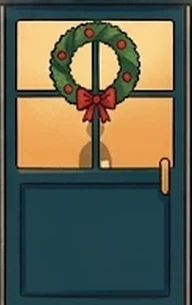
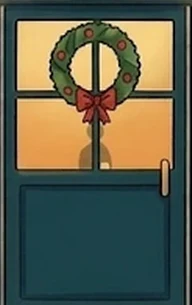
Street repainted in Gemini: full-size detailed scooters and bicycle, illustrated people with faces in the windows; door hint moved off the people
Claude-Session: https://claude.ai/code/session_01M7PDTuVyJJ1kuWZYfUFzFc

diff --git a/js/art.js b/js/art.js
@@ -957,10 +957,10 @@ window.ART = (function () {
       <path class="door-pulse" d="M790,775 L790,470 Q790,384 900,384 Q1010,384 1010,470 L1010,775" fill="none" stroke="#FFE3A3" stroke-width="10" stroke-linecap="round"/>
       <g id="door-hint" class="hot" data-act="enter">
         <g class="door-hint-inner">
-          <path d="M1042,612 L1014,632 L1046,640 Z" fill="#fff" ${ol(4)}/>
-          <rect x="1036" y="590" width="196" height="56" rx="16" fill="#fff" ${ol(4)}/>
-          <path d="M1040,616 L1040,636" stroke="#fff" stroke-width="8"/>
-          <text id="door-hint-text" x="1134" y="628" text-anchor="middle" textLength="164" lengthAdjust="spacingAndGlyphs" font-family="Bangers, Impact, sans-serif" font-size="30" fill="${INK}">Click the door!</text>
+          <path d="M1042,660 L1014,680 L1046,688 Z" fill="#fff" ${ol(4)}/>
+          <rect x="1036" y="642" width="196" height="56" rx="16" fill="#fff" ${ol(4)}/>
+          <path d="M1040,664 L1040,684" stroke="#fff" stroke-width="8"/>
+          <text id="door-hint-text" x="1134" y="680" text-anchor="middle" textLength="164" lengthAdjust="spacingAndGlyphs" font-family="Bangers, Impact, sans-serif" font-size="30" fill="${INK}">Click the door!</text>
         </g>
       </g>
     </svg>`;

diff --git a/index.html b/index.html
@@ -10,7 +10,7 @@
   <meta property="og:description" content="An interactive resume, built as a café: order any chapter of John Paul Minj's work in sales and marketing.">
   <meta property="og:type" content="website">
   <meta property="og:url" content="https://johnpaulminj.com/">
-  <meta property="og:image" content="https://johnpaulminj.com/assets/og-image.png?v=4">
+  <meta property="og:image" content="https://johnpaulminj.com/assets/og-image.png?v=5">
   <meta property="og:image:width" content="1200">
   <meta property="og:image:height" content="630">
   <meta name="twitter:card" content="summary_large_image">
